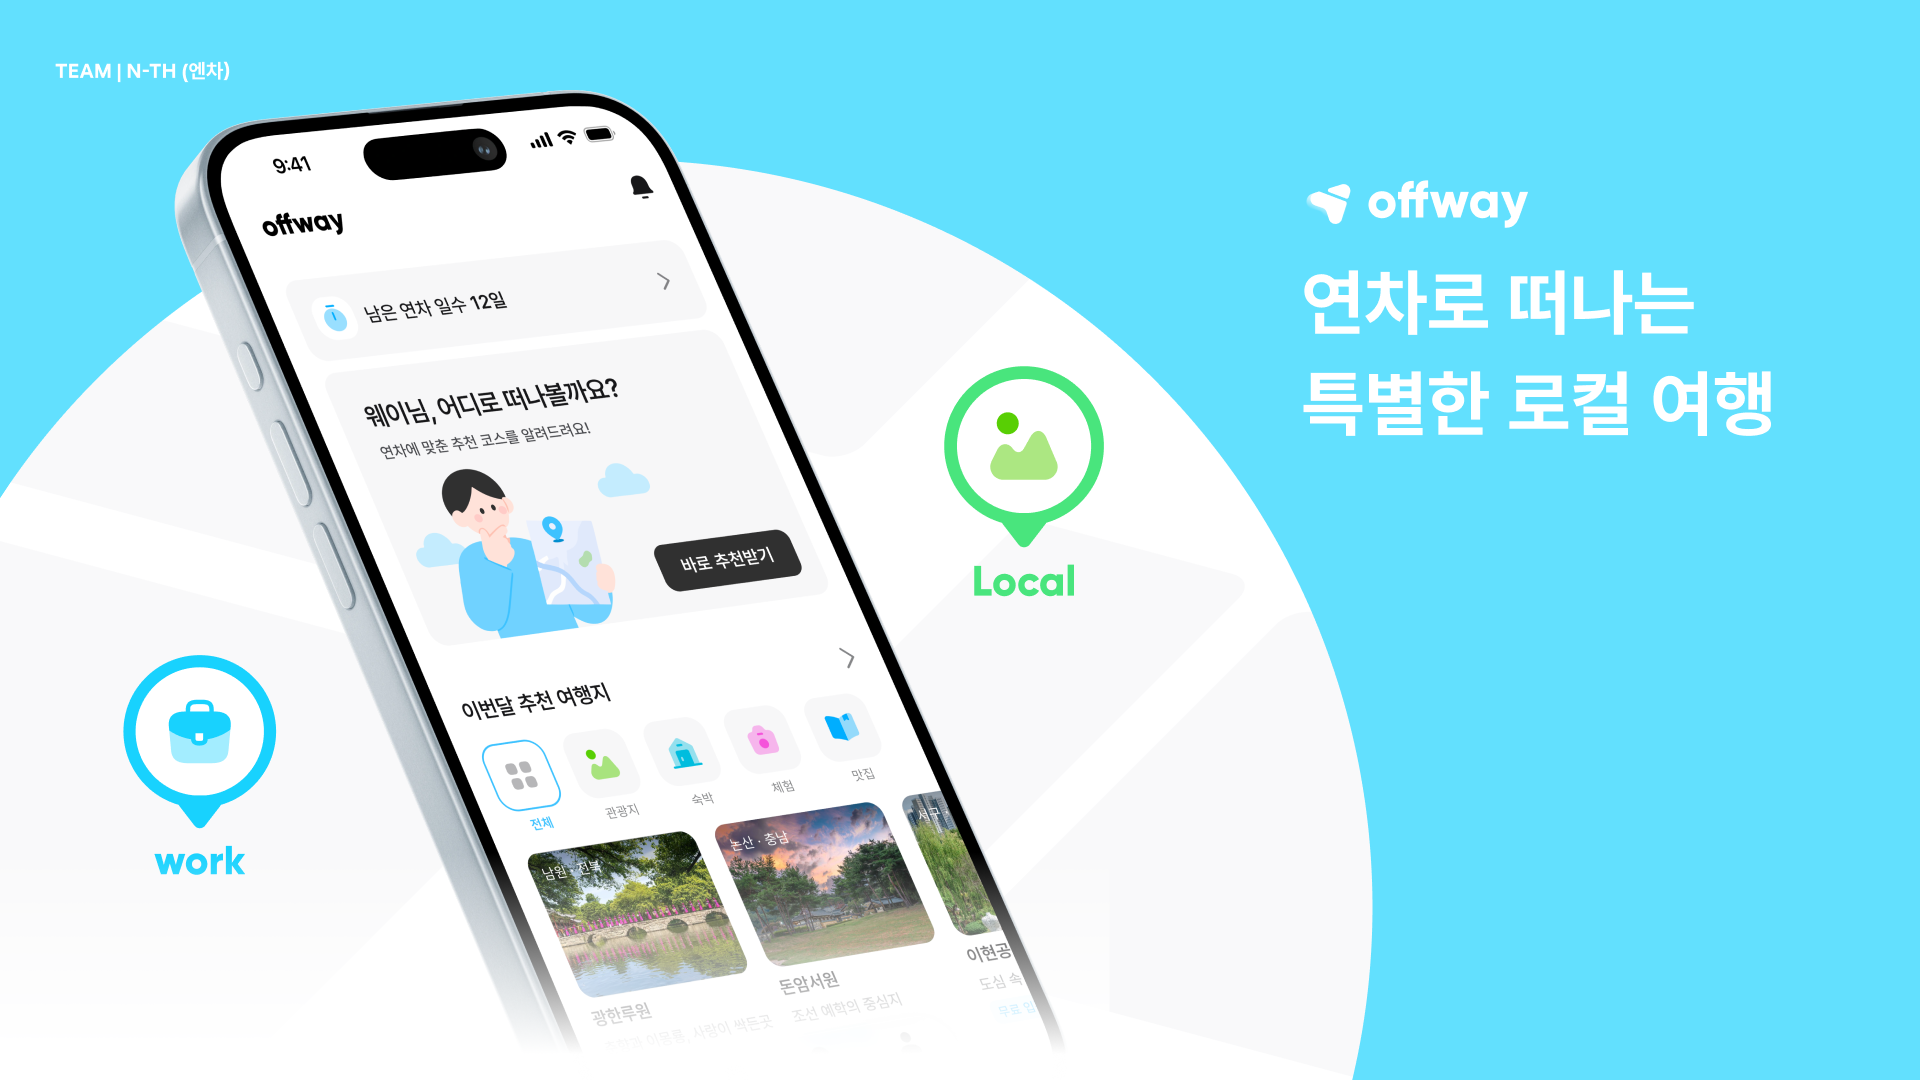
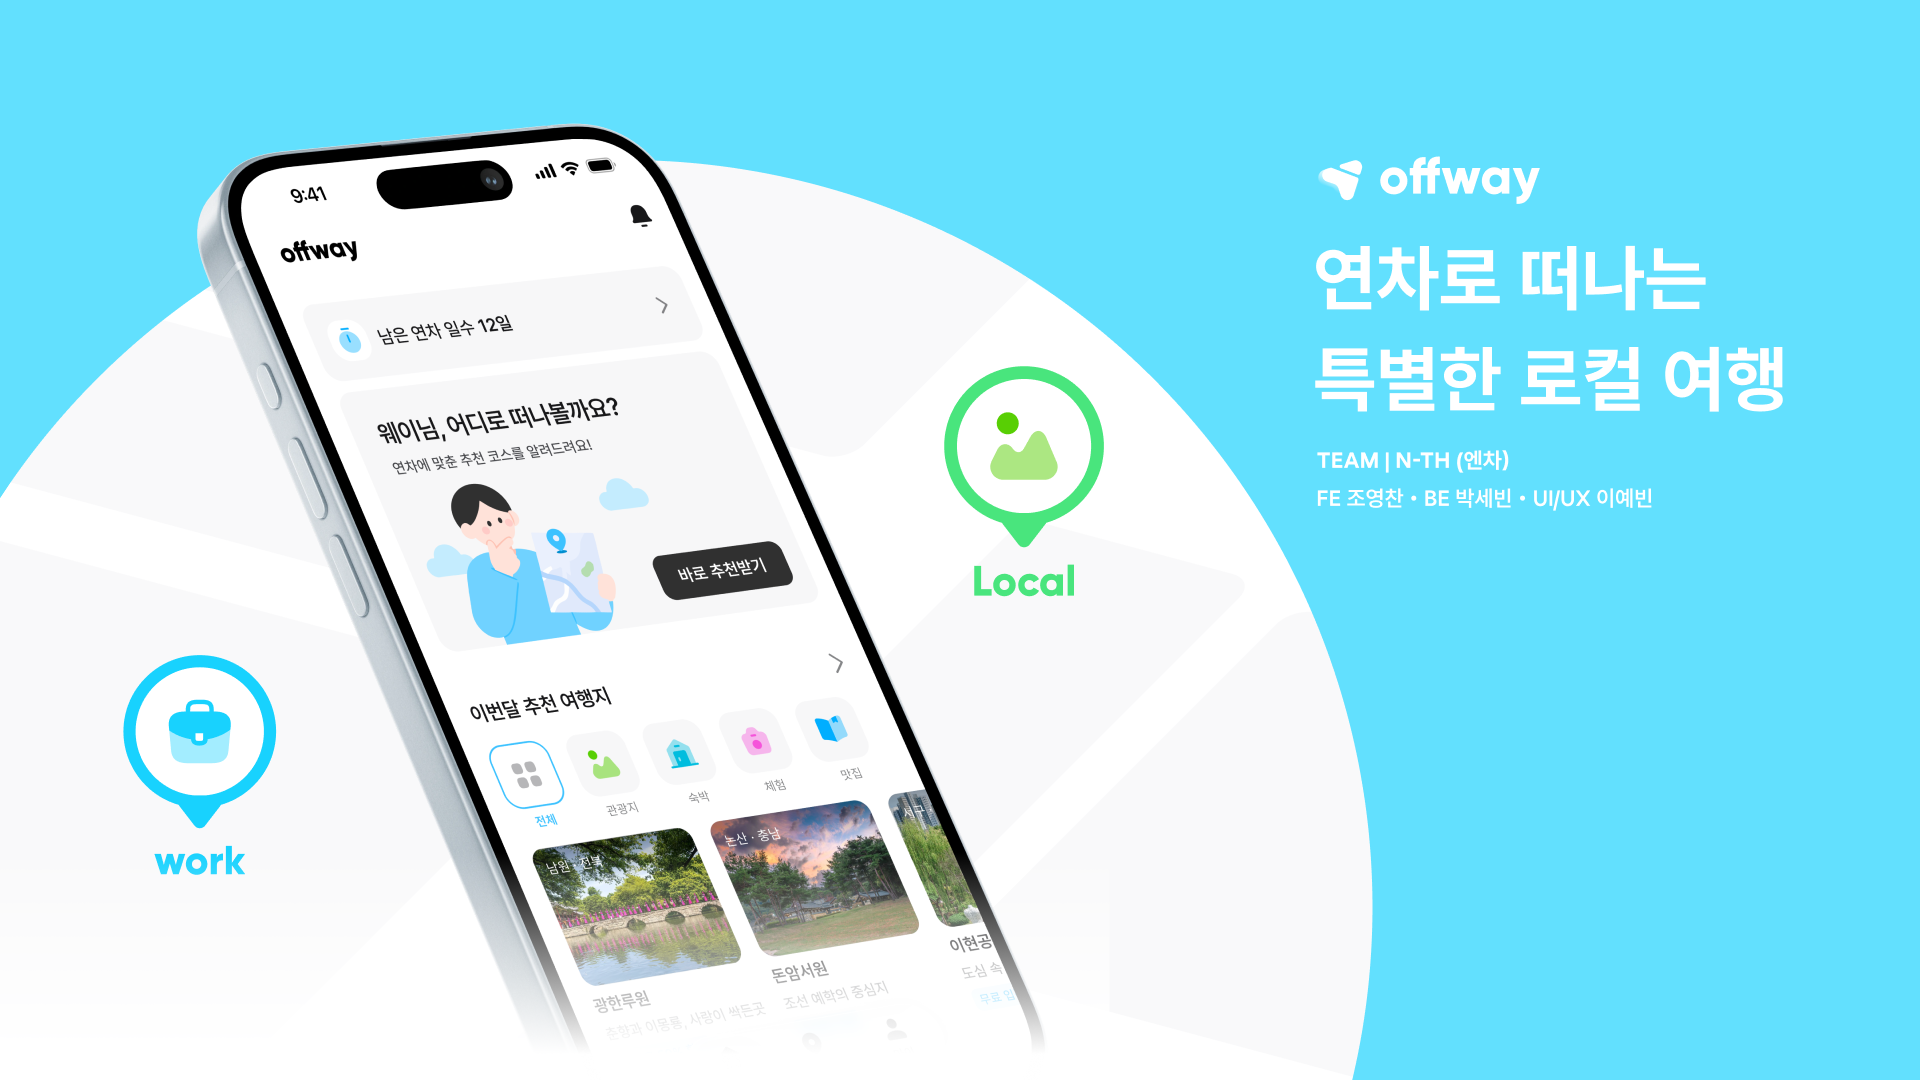
SOPT 39기·GDGoC 건국대 활동 추가 및 OffWay 썸네일 교체
- 활동 경험에 SOPT 39th(Web), GDGoC 건국대(Member) 추가
- OffWay 대표 이미지를 팀 크레딧 포함 버전으로 교체
- Live Activity 관련 노트 2건 간결하게 정리

diff --git a/src/data/portfolio.ts b/src/data/portfolio.ts
@@ -451,8 +451,8 @@ export const projectsData: {
       "Dio 인터셉터로 JWT 자동 첨부 및 토큰 갱신 처리",
       "인구감소지역 89곳 전수 조사 결과 콘텐츠가 40건 수준인 지역을 확인하고, 코스 최대 2박3일 정책을 도출",
       "앱 없이도 코스를 볼 수 있는 공유 웹(offway.cloud)을 별도 구축 — 백엔드 CORS 제약을 서버리스 프록시로 우회",
-      "ActivityKit 기반 Live Activity를 Swift Widget Extension으로 구현 — Flutter는 지역·남은 날·날짜만 넘기고 문구 조립은 네이티브 한 곳에서 처리해 표시 규칙을 단일화",
-      "iOS 최소 버전은 15.0을 유지하고 Live Activity 확장만 16.1로 분리 — 15.x 기기는 다이나믹 아일랜드 하드웨어가 없어 앱 최소 버전을 올려도 얻는 것이 없다고 판단",
+      "Live Activity를 Swift Widget Extension으로 구현 — 문구 조립을 네이티브 한 곳에 모아 표시 규칙 단일화",
+      "iOS 최소 15.0은 유지하고 Live Activity만 16.1로 분리 — 15.x 기기엔 다이나믹 아일랜드가 없어 앱 버전을 올릴 이유가 없음",
       "잠금화면 문구 규칙과 서버 content-state 계약을 Swift 네이티브 테스트(xcodebuild)로 검증",
       "GitHub Actions로 포맷·분석·테스트 검사 및 브랜치 보호 적용",
       "TestFlight 사전 배포로 검증 후 정식 출시",
@@ -567,6 +567,18 @@ export const activityData: {
   links?: { demo?: string; website?: string; github?: string };
   projectId?: number;
 }[] = [
+  {
+    organization: "SOPT 39th",
+    role: "Web",
+    period: "2026.09 ~ 현재",
+    description: "기획·디자인·개발이 함께 서비스를 만드는 대학생 연합 IT 벤처 창업 동아리",
+  },
+  {
+    organization: "GDGoC 건국대학교",
+    role: "Member",
+    period: "2026.09 ~ 현재",
+    description: "Google Developer Groups on Campus, 세미나와 스터디로 함께 성장하는 개발자 커뮤니티",
+  },
   {
     organization: "디프만(DEPROMEET) 18th",
     role: "Web",
